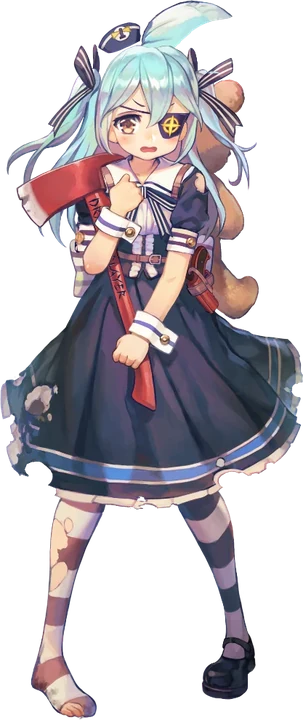
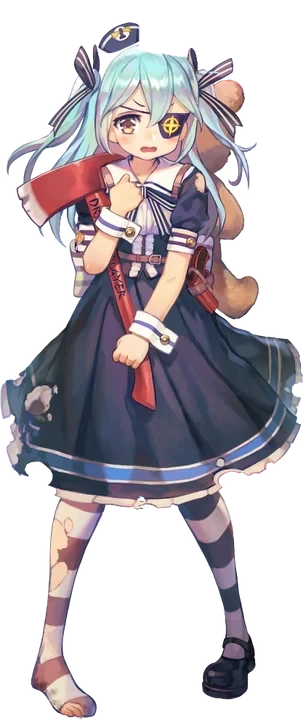
V1.14: 버그 수정 - 엘알엘 전신 일러스트에서 모자 옆으로 솟은 머리카락 삭제

Changed region(s): [[0.4455, 0.0, 0.7723, 0.0917]]

diff --git a/js/app.js b/js/app.js
@@ -114,7 +114,7 @@
   const shuffle = (list) => { const a = list.slice(); for (let i = a.length - 1; i > 0; i--) { const j = Math.floor(Math.random() * (i + 1)); [a[i], a[j]] = [a[j], a[i]]; } return a; };
 
   // ── title ──────────────────────────────────────────────
-  const VERSION = 'V1.13'; // shown at the title's bottom right and in the settings
+  const VERSION = 'V1.14'; // shown at the title's bottom right and in the settings
   $('ver').textContent = VERSION;
   document.querySelector('#title .title-bg').style.backgroundImage = `url(${IMG.bg_title})`;
   // the title shows the campaign's own leads (the coast where it starts, Leprechaun / Brownie / Gnome)

diff --git a/sw.js b/sw.js
@@ -1,6 +1,6 @@
 // Offline / repeat-visit cache. Heavy data (rigs, baked effects, sounds, illustrations) is cache-first: it only changes
 // when the build tools run, and then CACHE is bumped. Code and pages are network-first so edits show up at once.
-const CACHE = 'lao-war-genesis-cde84925eb';
+const CACHE = 'lao-war-genesis-329aea5628';
 const HEAVY = /\/(js\/sd|js\/fx|assets)\//;
 
 self.addEventListener('install', () => self.skipWaiting());

diff --git a/index.html b/index.html
@@ -221,7 +221,7 @@
 <script src="js/fx/_meta.js?v=9466c56f"></script>
 <script src="js/audio.js?v=f2275017"></script>
 <script src="js/game.js?v=59135137"></script>
-<script src="js/patchnotes.js?v=48848e4e"></script>
-<script src="js/app.js?v=81925b36"></script>
+<script src="js/patchnotes.js?v=90c340c1"></script>
+<script src="js/app.js?v=96793511"></script>
 </body>
 </html>

diff --git a/js/patchnotes.js b/js/patchnotes.js
@@ -1,5 +1,6 @@
 // 패치노트: 첫 화면의 '패치노트' 버튼에서 보여 준다. 새 버전을 올릴 때마다 맨 위에 추가한다.
 window.PATCHNOTES = [
+  { v: 'V1.14', items: ['버그 수정'] },
   { v: 'V1.13', items: ['버그 수정'] },
   { v: 'V1.12', items: ['버그 수정'] },
   { v: 'V1.11', items: ['버그 수정'] },
